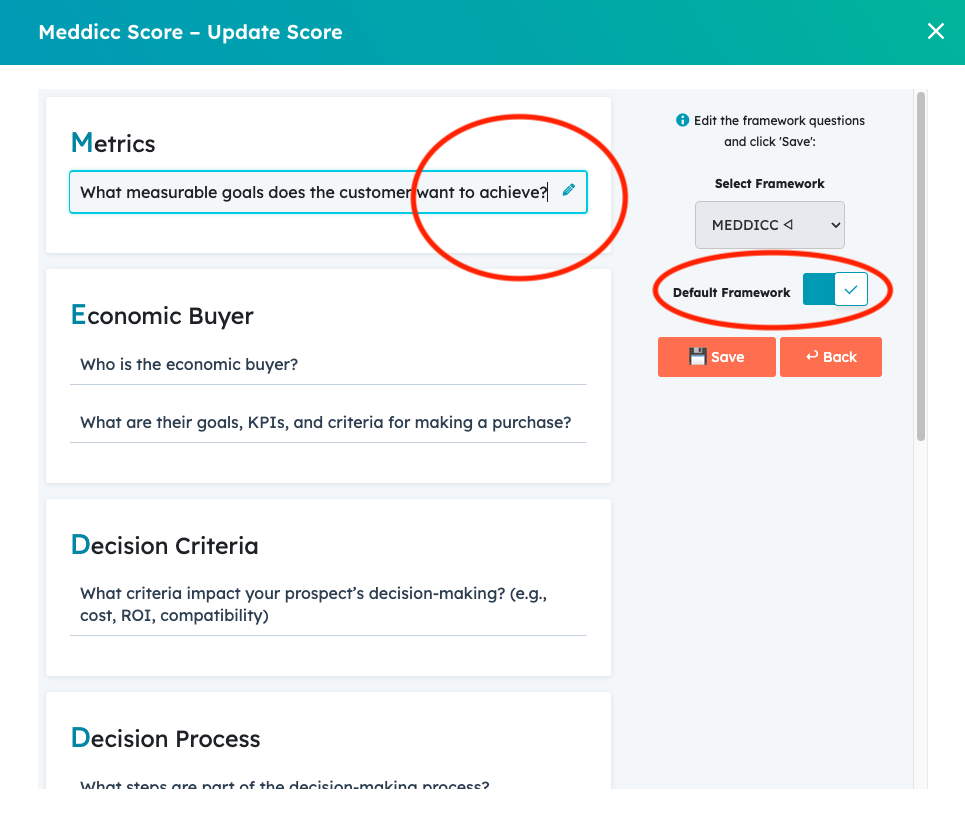
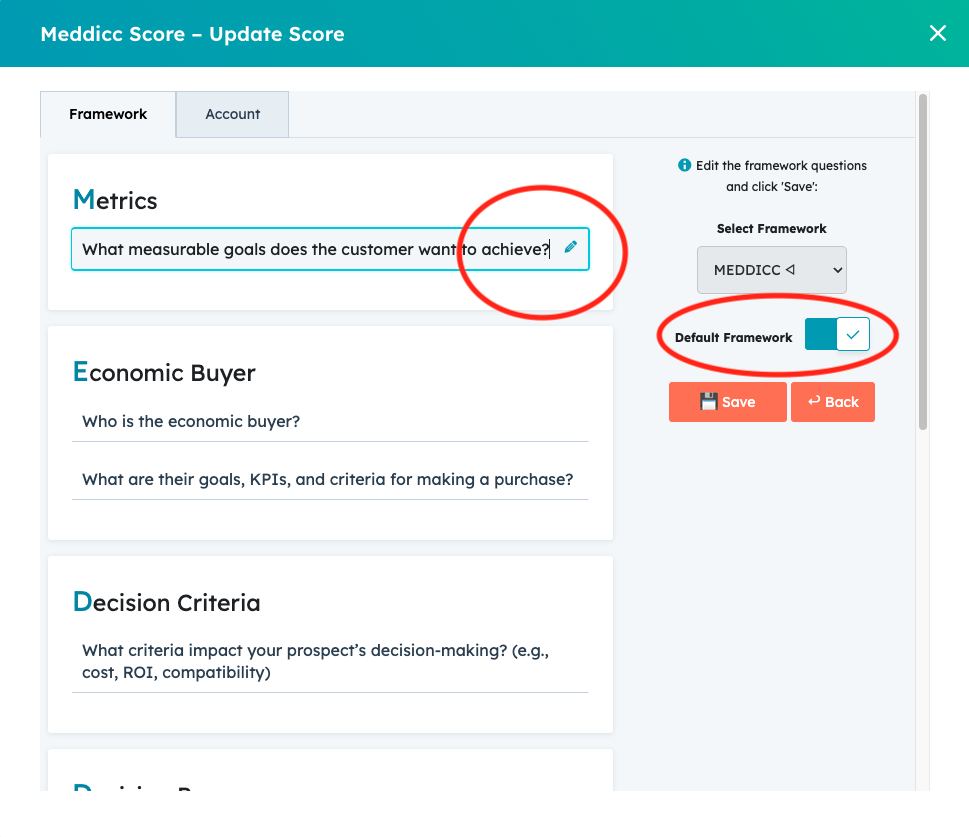
guide

diff --git a/_includes/sidebar_resume.html b/_includes/sidebar_resume.html
@@ -14,7 +14,7 @@
       <li><a href="#begin-scoring">6. Begin Scoring</a></li>
       <li><a href="#change-framework">7. Change the Framework</a></li>
       <li><a href="#editing-questions">8. Editing the framework questions and default framework</a></li>
-      <li><a href="#editing-users">9. Manage your account</a></li>
+      <li><a href="#manage-account">9. Manage your account</a></li>
       <li><a href="#report-and-export">10. Report and Export</a></li>
       <li><a href="#upgrade-to-premium">11. Upgrade to Premium</a></li>
     </ul>

diff --git a/_posts/2023-01-01-setup-guide.md b/_posts/2023-01-01-setup-guide.md
@@ -127,7 +127,7 @@ Note: Comments to engagements are not gathered since they are not available thro
 <h4 class="pt-6-m mb-3 text-primary" id="editing-questions">8. Settings: Editing the framework questions and default framework</h4>
 
 <ul>
-  <li>Clicking the gear icon on ‘Select Framework’ allows you to edit the questions for that framework. The change will apply to all account members (not just the individual user). The modification will not affect the answers or scores previously submitted but will update the questions for all deals where that framework has been used.</li>
+  <li>Clicking the Settings buttons, on the Framework tab, allows the user to edit the questions for that framework. The change will apply to all account members (not just the individual user). The modification will not affect the answers or scores previously submitted but will update the questions for all deals where that framework has been used.</li>
 </ul>
 
 <p class="text-center"><img src="../../assets/images/guide9.png" alt="Editing" class="my-3 border border-3 border-primary rounded rounded-3"></p>
@@ -143,7 +143,7 @@ Note: Comments to engagements are not gathered since they are not available thro
 <h4 class="pt-6-m mb-3 text-primary" id="manage-account">9. Settings: Manage your account and users</h4>
 
 <ul>
-  <li>Clicking on the "Account" tag displays a list of current users who have installed MeddiccScore.</li>
+  <li>Clicking on the "Account" tab displays a list of current users who have installed MeddiccScore.</li>
   <li>In the right column of the list, two actions are available only to the Admin user:
     <ul>
       <li><strong>Delete:</strong> Marks the user for deletion. The user will need to reinstall MeddiccScore to continue using it.</li>
@@ -152,7 +152,7 @@ Note: Comments to engagements are not gathered since they are not available thro
   </li>
 </ul>
 
-<p class="text-center"><img src="../../assets/images/guide9.png" alt="Editing" class="my-3 border border-3 border-primary rounded rounded-3"></p>
+<p class="text-center"><img src="../../assets/images/guide91.png" alt="Editing" class="my-3 border border-3 border-primary rounded rounded-3"></p>
 
 <ul>
   <li>On the right side, there are different options:
